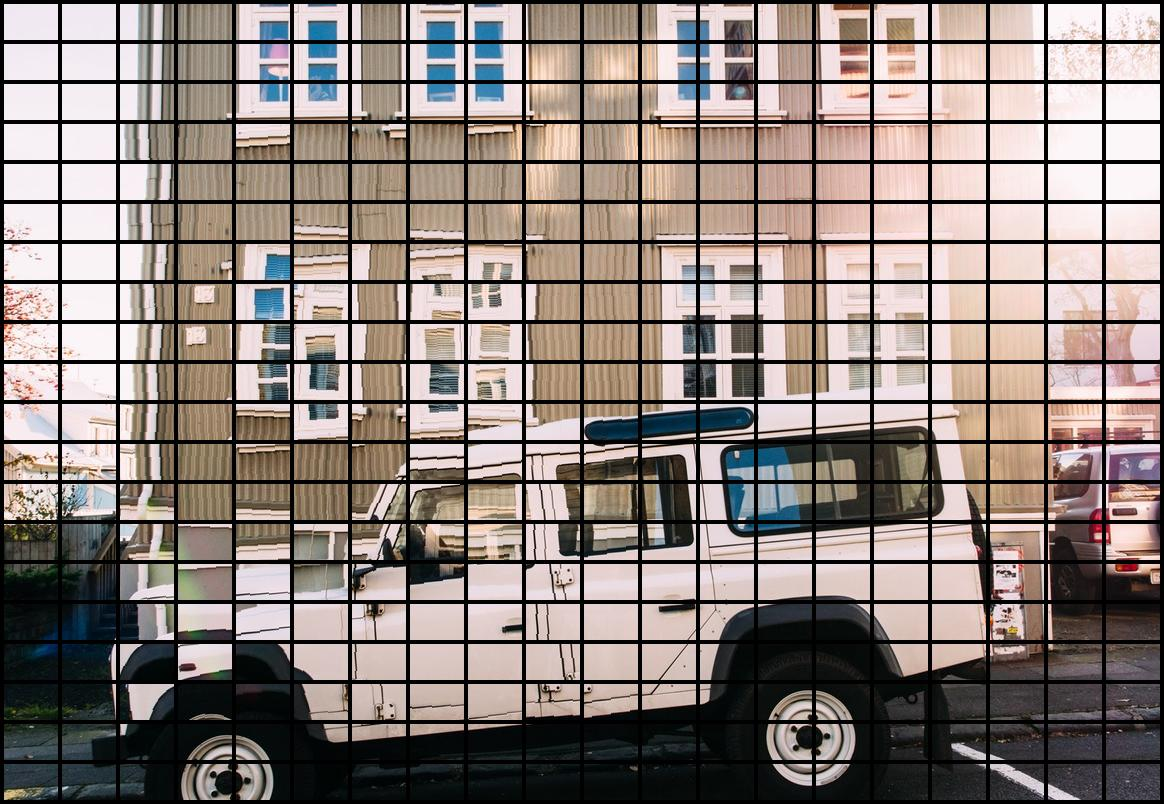
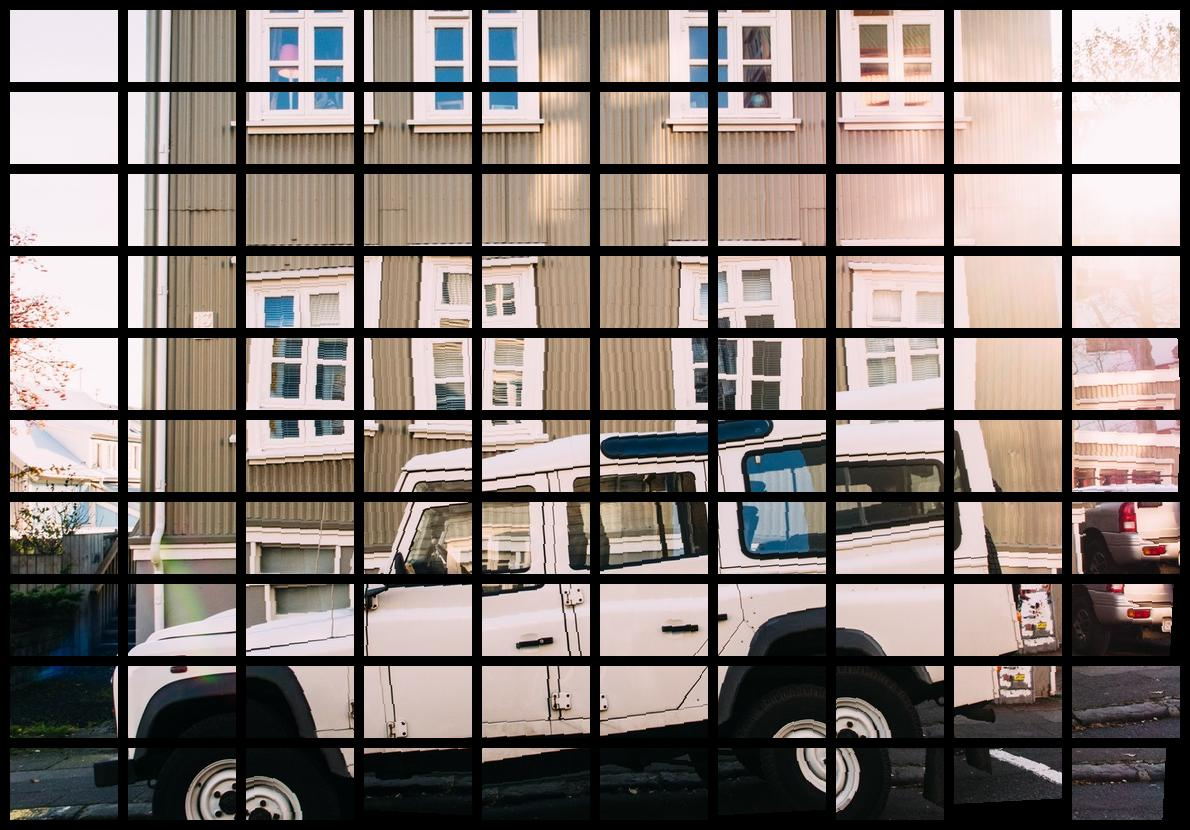
fixed rotation of blocks

diff --git a/TiltedContactSheet.py b/TiltedContactSheet.py
@@ -61,9 +61,12 @@ class TiltedContactSheet:
                 wy2 = wy1 + block_height
                 dx1 = block_width * h + (self._spacing + (h * self._spacing))
                 dy1 = block_height * v + (self._spacing + (v * self._spacing))
-                if v >= self._vrotate[0] and v <= self._vrotate[1] and h >= self._hrotate[0] and h <= self._hrotate[1]:
+                if self._vrotate[0] <= v <= self._vrotate[1] and self._hrotate[0] <= h <= self._hrotate[1]:
+                    margin = 20
+                    large_block = working_image.crop((wx1-margin, wy1-margin, wx2+margin, wy2+margin))
                     angle = self._rotate_angle if rotate_count % 2 == 0 else (-1 * self._rotate_angle)
-                    block = working_image.rotate(angle).crop((wx1, wy1, wx2, wy2))
+                    block = large_block.rotate(angle).crop((margin, margin,
+                                                            large_block.size[0]-margin, large_block.size[1]-margin))
                     rotate_count += 1
                 else:
                     block = working_image.crop((wx1, wy1, wx2, wy2))
@@ -82,8 +85,8 @@ class TiltedContactSheet:
 
 
 if __name__ == '__main__':
-    infile = 'mountain_in.jpg'
-    outfile = 'mountain_out.jpg'
+    infile = 'building_in.jpg'
+    outfile = 'building_out.jpg'
     iba = open(infile, 'rb').read()
     tcs = TiltedContactSheet()
     oba = tcs.start(iba)
